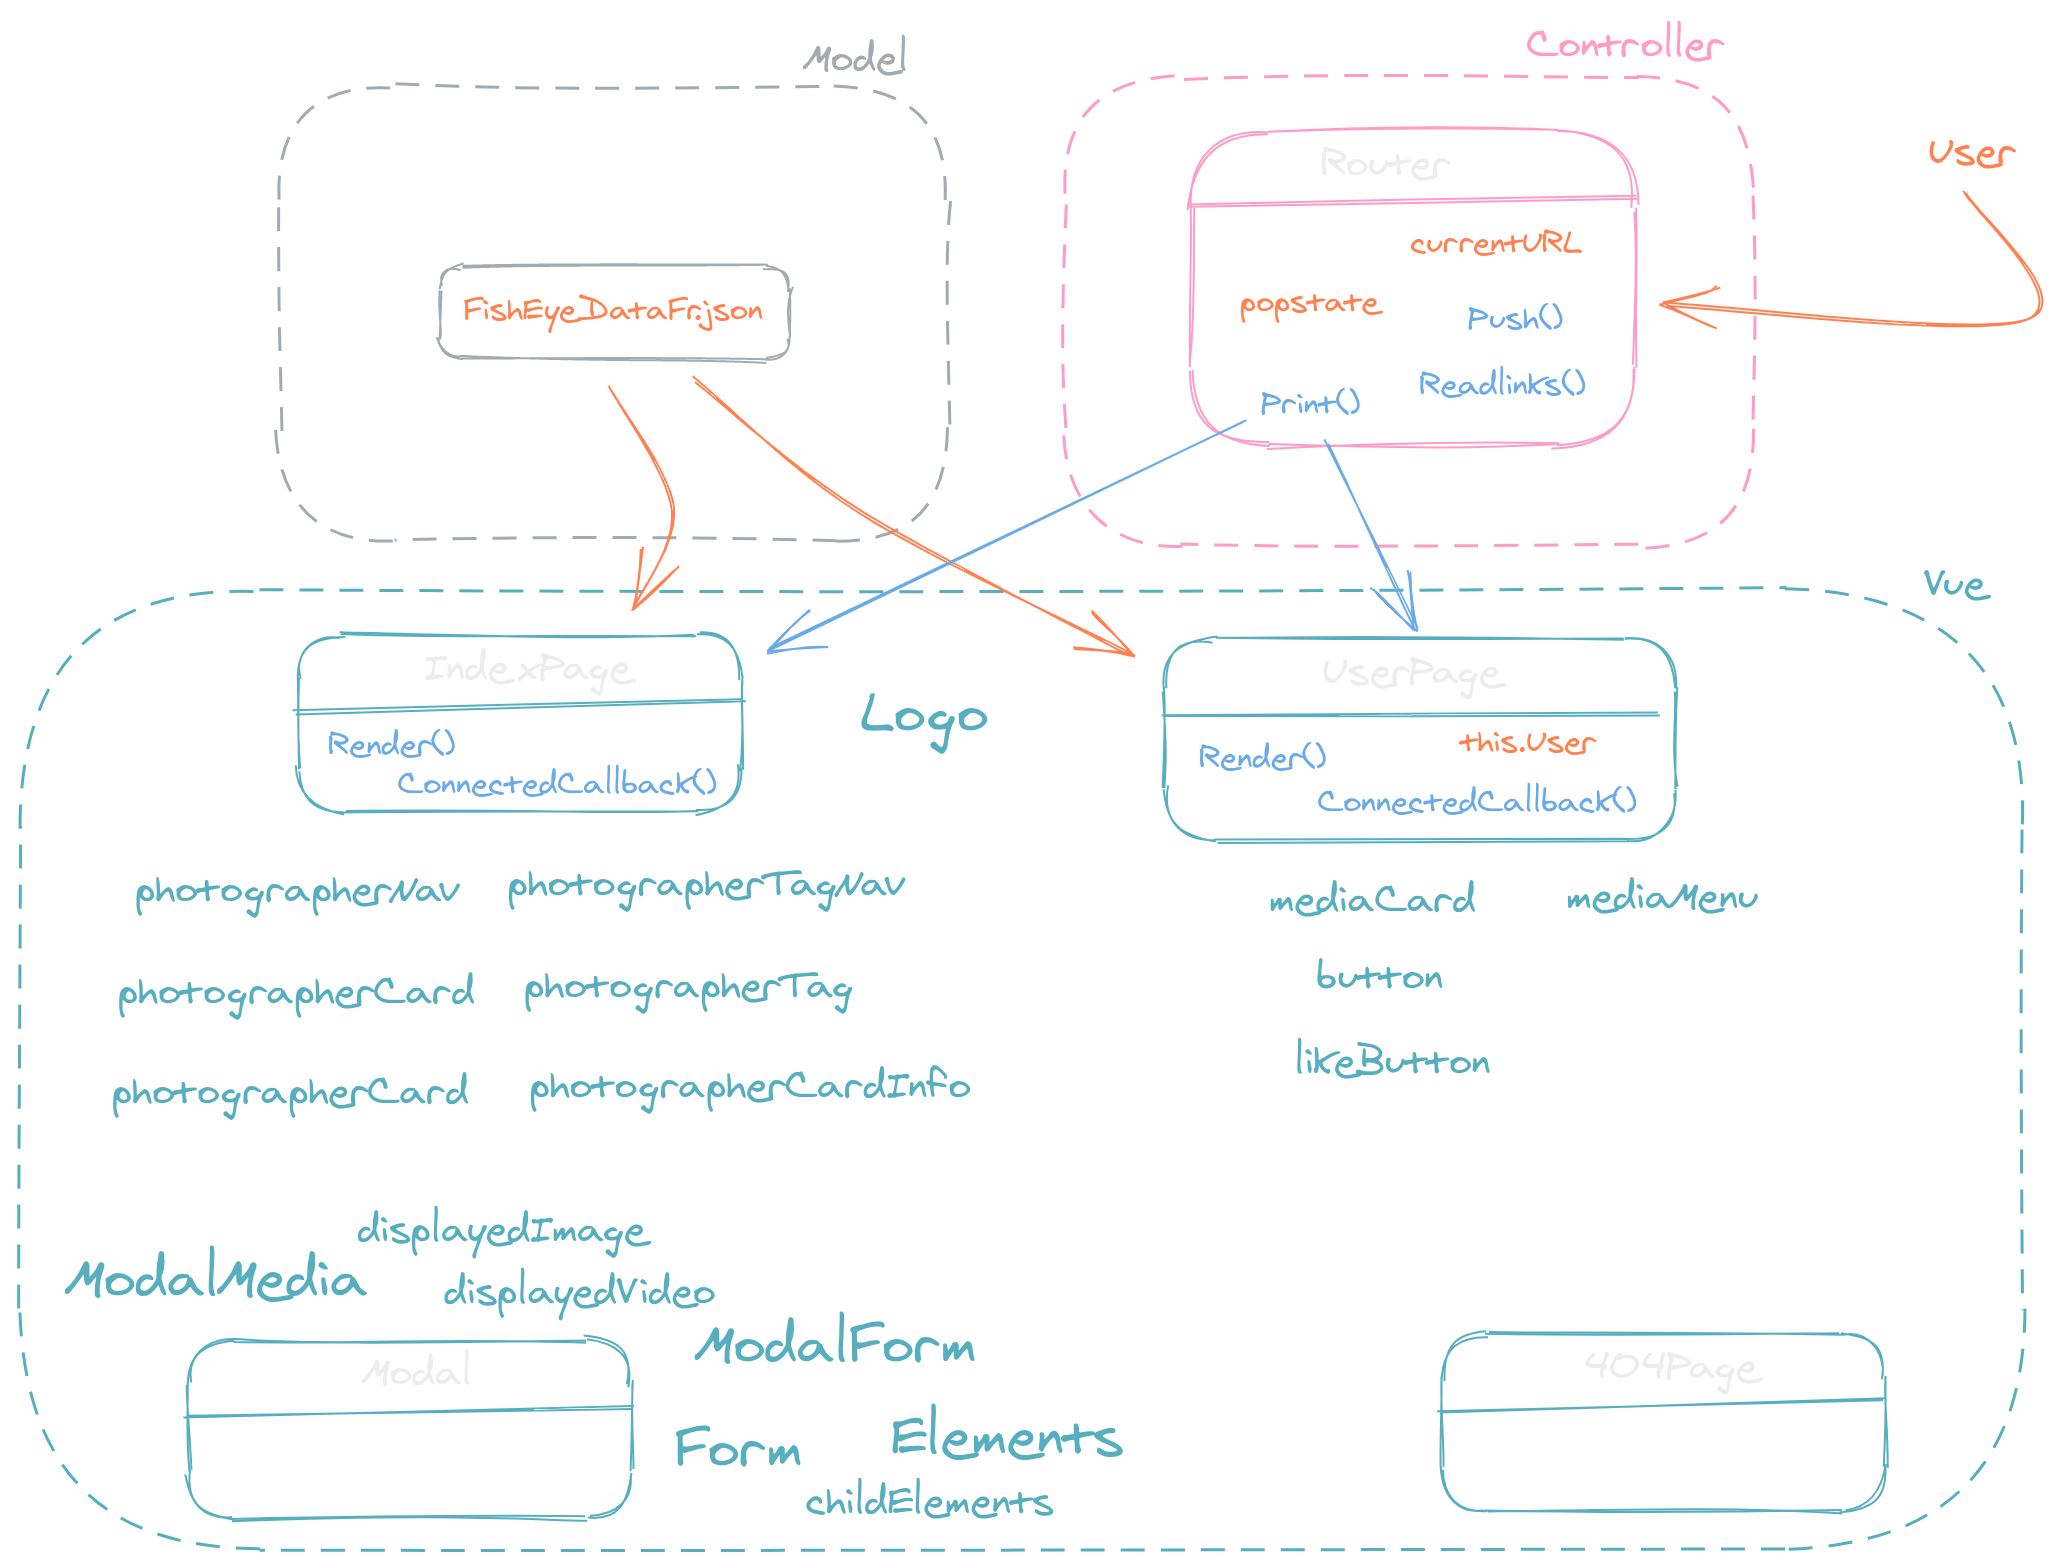
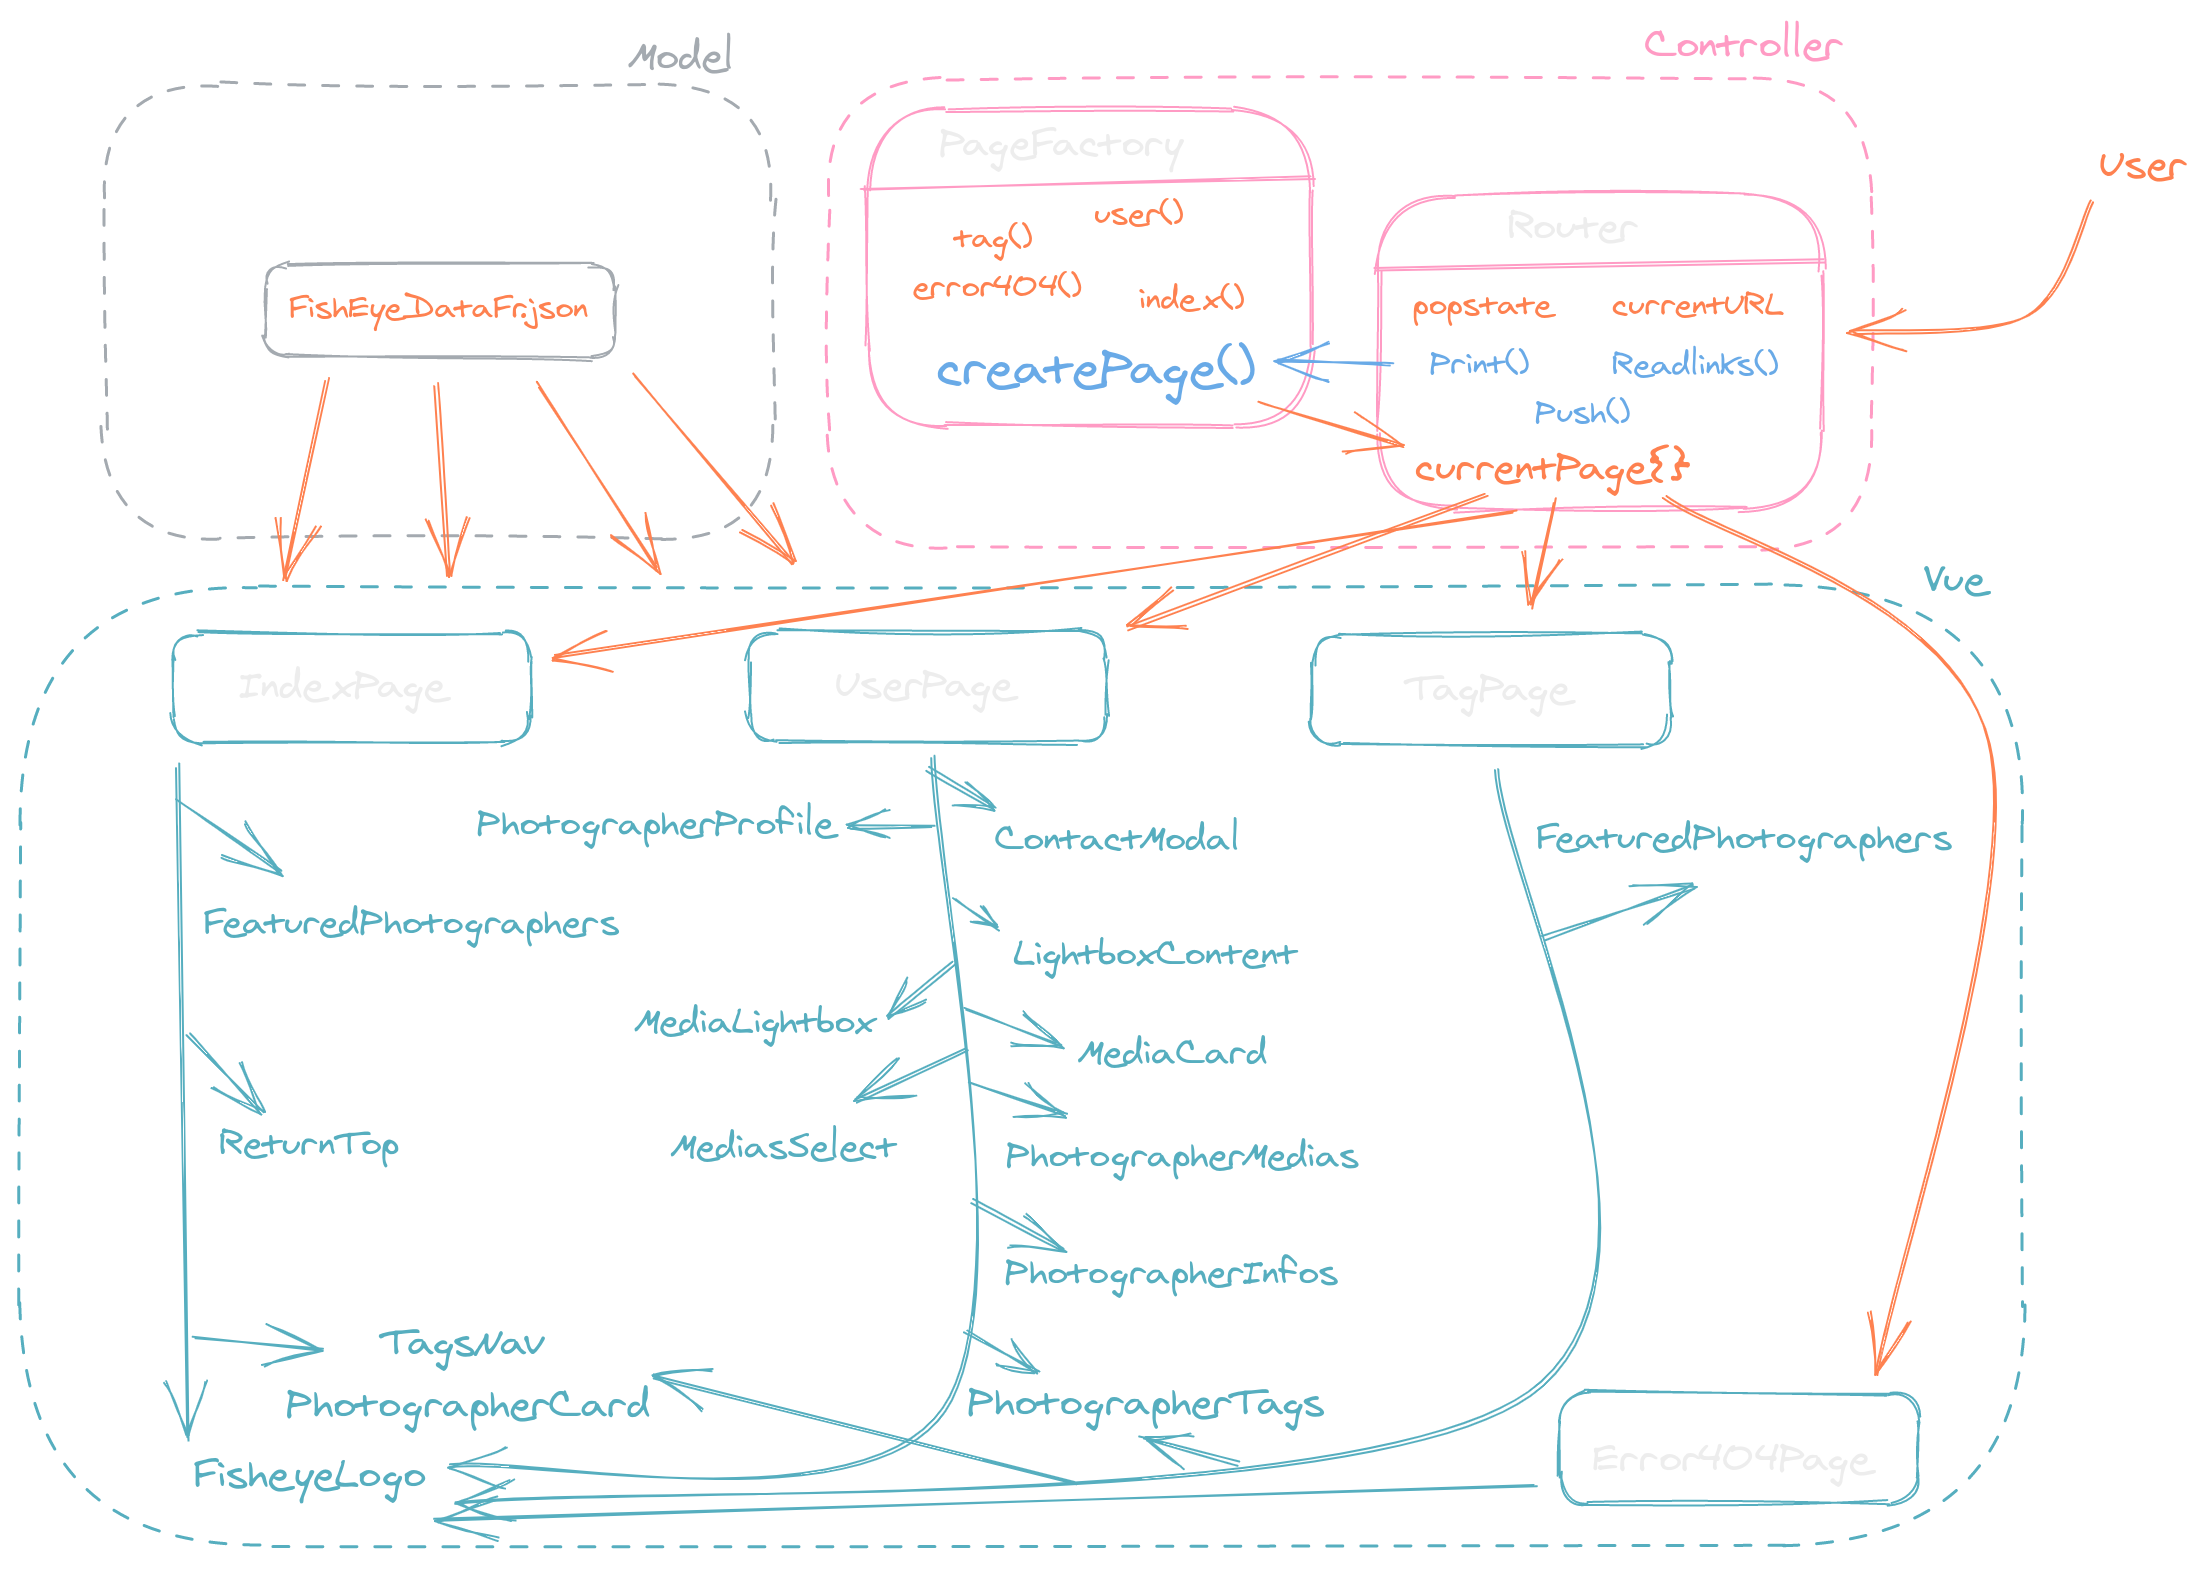
update documentation

diff --git a/pages/components/user/contact-modal.js b/pages/components/user/contact-modal.js
@@ -1,5 +1,5 @@
 /**
- * 
+ * A modal with a contact form, used to contact a photographer
  */
 export class ContactModal extends HTMLElement {
     constructor() {
@@ -9,7 +9,7 @@ export class ContactModal extends HTMLElement {
     }
  
     /**
-     * Insert an template, then call short() & render() & listenSort
+     * Insert a form template, then call listenOpenModal() & ListenCloseModal() & confirmForm()
      */
     connectedCallback () {
         const template = document.createElement('template');
@@ -56,24 +56,18 @@ export class ContactModal extends HTMLElement {
         this.listenCloseModal();
         this.confirmForm();
     }
-
-    /**
-     *  
-     */
-    render() {
-        this.querySelector("div").style.display = "block";
-    }
     
     /**
-     * 
+     * Listen the modal button and make the modal appears on click 
      */
     listenOpenModal() {
-        document.querySelector(".contactModal").addEventListener('click', 
-            () => {this.render()});
+        document.querySelector(".contactModal").addEventListener('click', () => {
+            this.querySelector("div").style.display = "block";
+        })
     }
 
     /**
-     * 
+     * Listen the close button in the modal, and close the modal on click
      */
     listenCloseModal() {
         this.querySelector(".closeModal").addEventListener('click', () => {
@@ -82,22 +76,25 @@ export class ContactModal extends HTMLElement {
     }
 
     /**
-     * 
+     * Listen for confirm, on click print the message and close the modal
      */
     confirmForm() {
         this.querySelector(".confirmContact").addEventListener('click', confirm => {
             // prevent the link for reloading the page
             confirm.preventDefault();
+
+            // create an object with all the message's data
             let message = {};
             let inputs = this.querySelectorAll("input");
-
             message.author = inputs[0].value + " " + inputs[1].value;
             message.email = inputs[2].value;
             message.date = new Date().toLocaleDateString();
             message.content = this.querySelector("textarea").value;
 
+            //  print the message on the console
             console.table(message);
 
+            // reset and close the modal
             inputs.forEach(input => {input.value = ""});
             this.querySelector("textarea").value = "";
             this.querySelector("div").style.display = "none";
@@ -105,5 +102,3 @@ export class ContactModal extends HTMLElement {
     }
 }
 
-// Import data from the JSON
-import data from '../../../assets/data/FishEyeDataFR.json'

diff --git a/pages/components/user/photographer-infos.js b/pages/components/user/photographer-infos.js
@@ -8,7 +8,7 @@ export class PhotographerInfos extends HTMLElement {
         this.id = window.history.state.url.slice(5);
         // get the photographer prince
         this.photographerPrice = this.getPhotographerPrice(this.id);
-        // 
+        // will registers the photographer's likes
         this.totalLikes = 0;
     }
  
@@ -32,7 +32,7 @@ export class PhotographerInfos extends HTMLElement {
     }
 
     /**
-     * 
+     * Count all the photographer's likes on envery medias then print it
      */
     render() {
         this.totalLikes = 0;
@@ -43,7 +43,7 @@ export class PhotographerInfos extends HTMLElement {
     }
 
     /**
-     * 
+     * Listen for new likes on the photographer's medias, increment the totallikes on click
      */
     listenNewLikes() {
         document.querySelectorAll("article button").forEach(likeBtn => {
@@ -55,7 +55,7 @@ export class PhotographerInfos extends HTMLElement {
     }
 
     /**
-     * 
+     * Listen if the photographer's medias are sort(), if so then render() again the component
      */
     listenSort() {
         document.getElementById("sortMedias").addEventListener('change', () => {

diff --git a/pages/components/index/return-top.js b/pages/components/index/return-top.js
@@ -1,5 +1,6 @@
 /**
- * 
+ * A button who appears when the user scrool, 
+ * click on it and you're back to the top !
  */
 export class ReturnTop extends HTMLElement {
     constructor() {
@@ -7,7 +8,7 @@ export class ReturnTop extends HTMLElement {
     } 
     
     /**
-     * Insert an empty template, then call render()
+     * Insert an empty template, then call render() & listClick()
      */
     connectedCallback() {
         const template = document.createElement('template');
@@ -24,7 +25,7 @@ export class ReturnTop extends HTMLElement {
     }
     
     /**
-     * 
+     * Make the button appear only when the user scroll a bit
      */
     render() {
         window.addEventListener('scroll', () => {
@@ -37,7 +38,7 @@ export class ReturnTop extends HTMLElement {
     }
 
     /**
-     * 
+     * When the user click on the button, he's back to the top of the document
      */
     listenClick() {
         this.querySelector("button").addEventListener('click', () => {

diff --git a/pages/components/user/lightbox-content.js b/pages/components/user/lightbox-content.js
@@ -148,7 +148,6 @@ export class LightboxContent extends HTMLElement {
         }else {
             previousMediaData = this.medias[this.medias.length-1];
         }
-        console.log(this.medias.indexOf(previousMediaData));
         let previousMedia = {
             id: previousMediaData.id,
             alt: previousMediaData.title 
@@ -172,7 +171,6 @@ export class LightboxContent extends HTMLElement {
         }else {
             nextMediaData = this.medias[0];
         }
-        console.log(this.medias.indexOf(nextMediaData));
         let nextMedia = {
             id: nextMediaData.id,
             alt: nextMediaData.title 

diff --git a/README.md b/README.md
@@ -8,7 +8,7 @@ Pour ce projet, je tente de réaliser une [Single Page Application](https://en.w
 
 Tout le site est donc une seule page HTML, Javascript gère complétement la navigation de l'utilisateur en chargeant le contenu à mesure de sa navigation. Je m'appuie pour cela énormément sur les [Web Components](https://developer.mozilla.org/en-US/docs/Web/Web_Components) qui vont constituer tout les éléments du site, chacun encapsulant à la fois son template CSS, son style Tailwind CSS et sa logique Javascript (les éléments sont dynamique en fonction des requêtes de l'utilisateur mais aussi de la database représentée par un JSON).
 
-Enfin, un soin particulier a été apporté à l'accesibilité du site (particulièrement la navigation au clavier et au lecteur d'écran) ainsi qu'à la documentation du code (inspiré par [JSDoc 3](https://jsdoc.app/)).
+Enfin, un soin particulier a été apporté à l'accesibilité du site (particulièrement la navigation au clavier et aux lecteurs d'écran) ainsi qu'à la documentation du code (inspiré par [JSDoc 3](https://jsdoc.app/)).
 
 Adresse du répo : https://github.com/GoulvenC/GoulvenClech_6_15032021
 
@@ -59,7 +59,8 @@ Le projet FishEye est une projet d'application web entièrement développé en J
 
 ## Architectures des classes
 ![](/SCHEMA.png)
-*[Work in progress]*
+Architecture du projet. Pas très lisible, mais ça m'a aidé à garder l'idée générale en tête.
+Chaque élément de la vue est un WebComponent.
 
 ## License 
 
